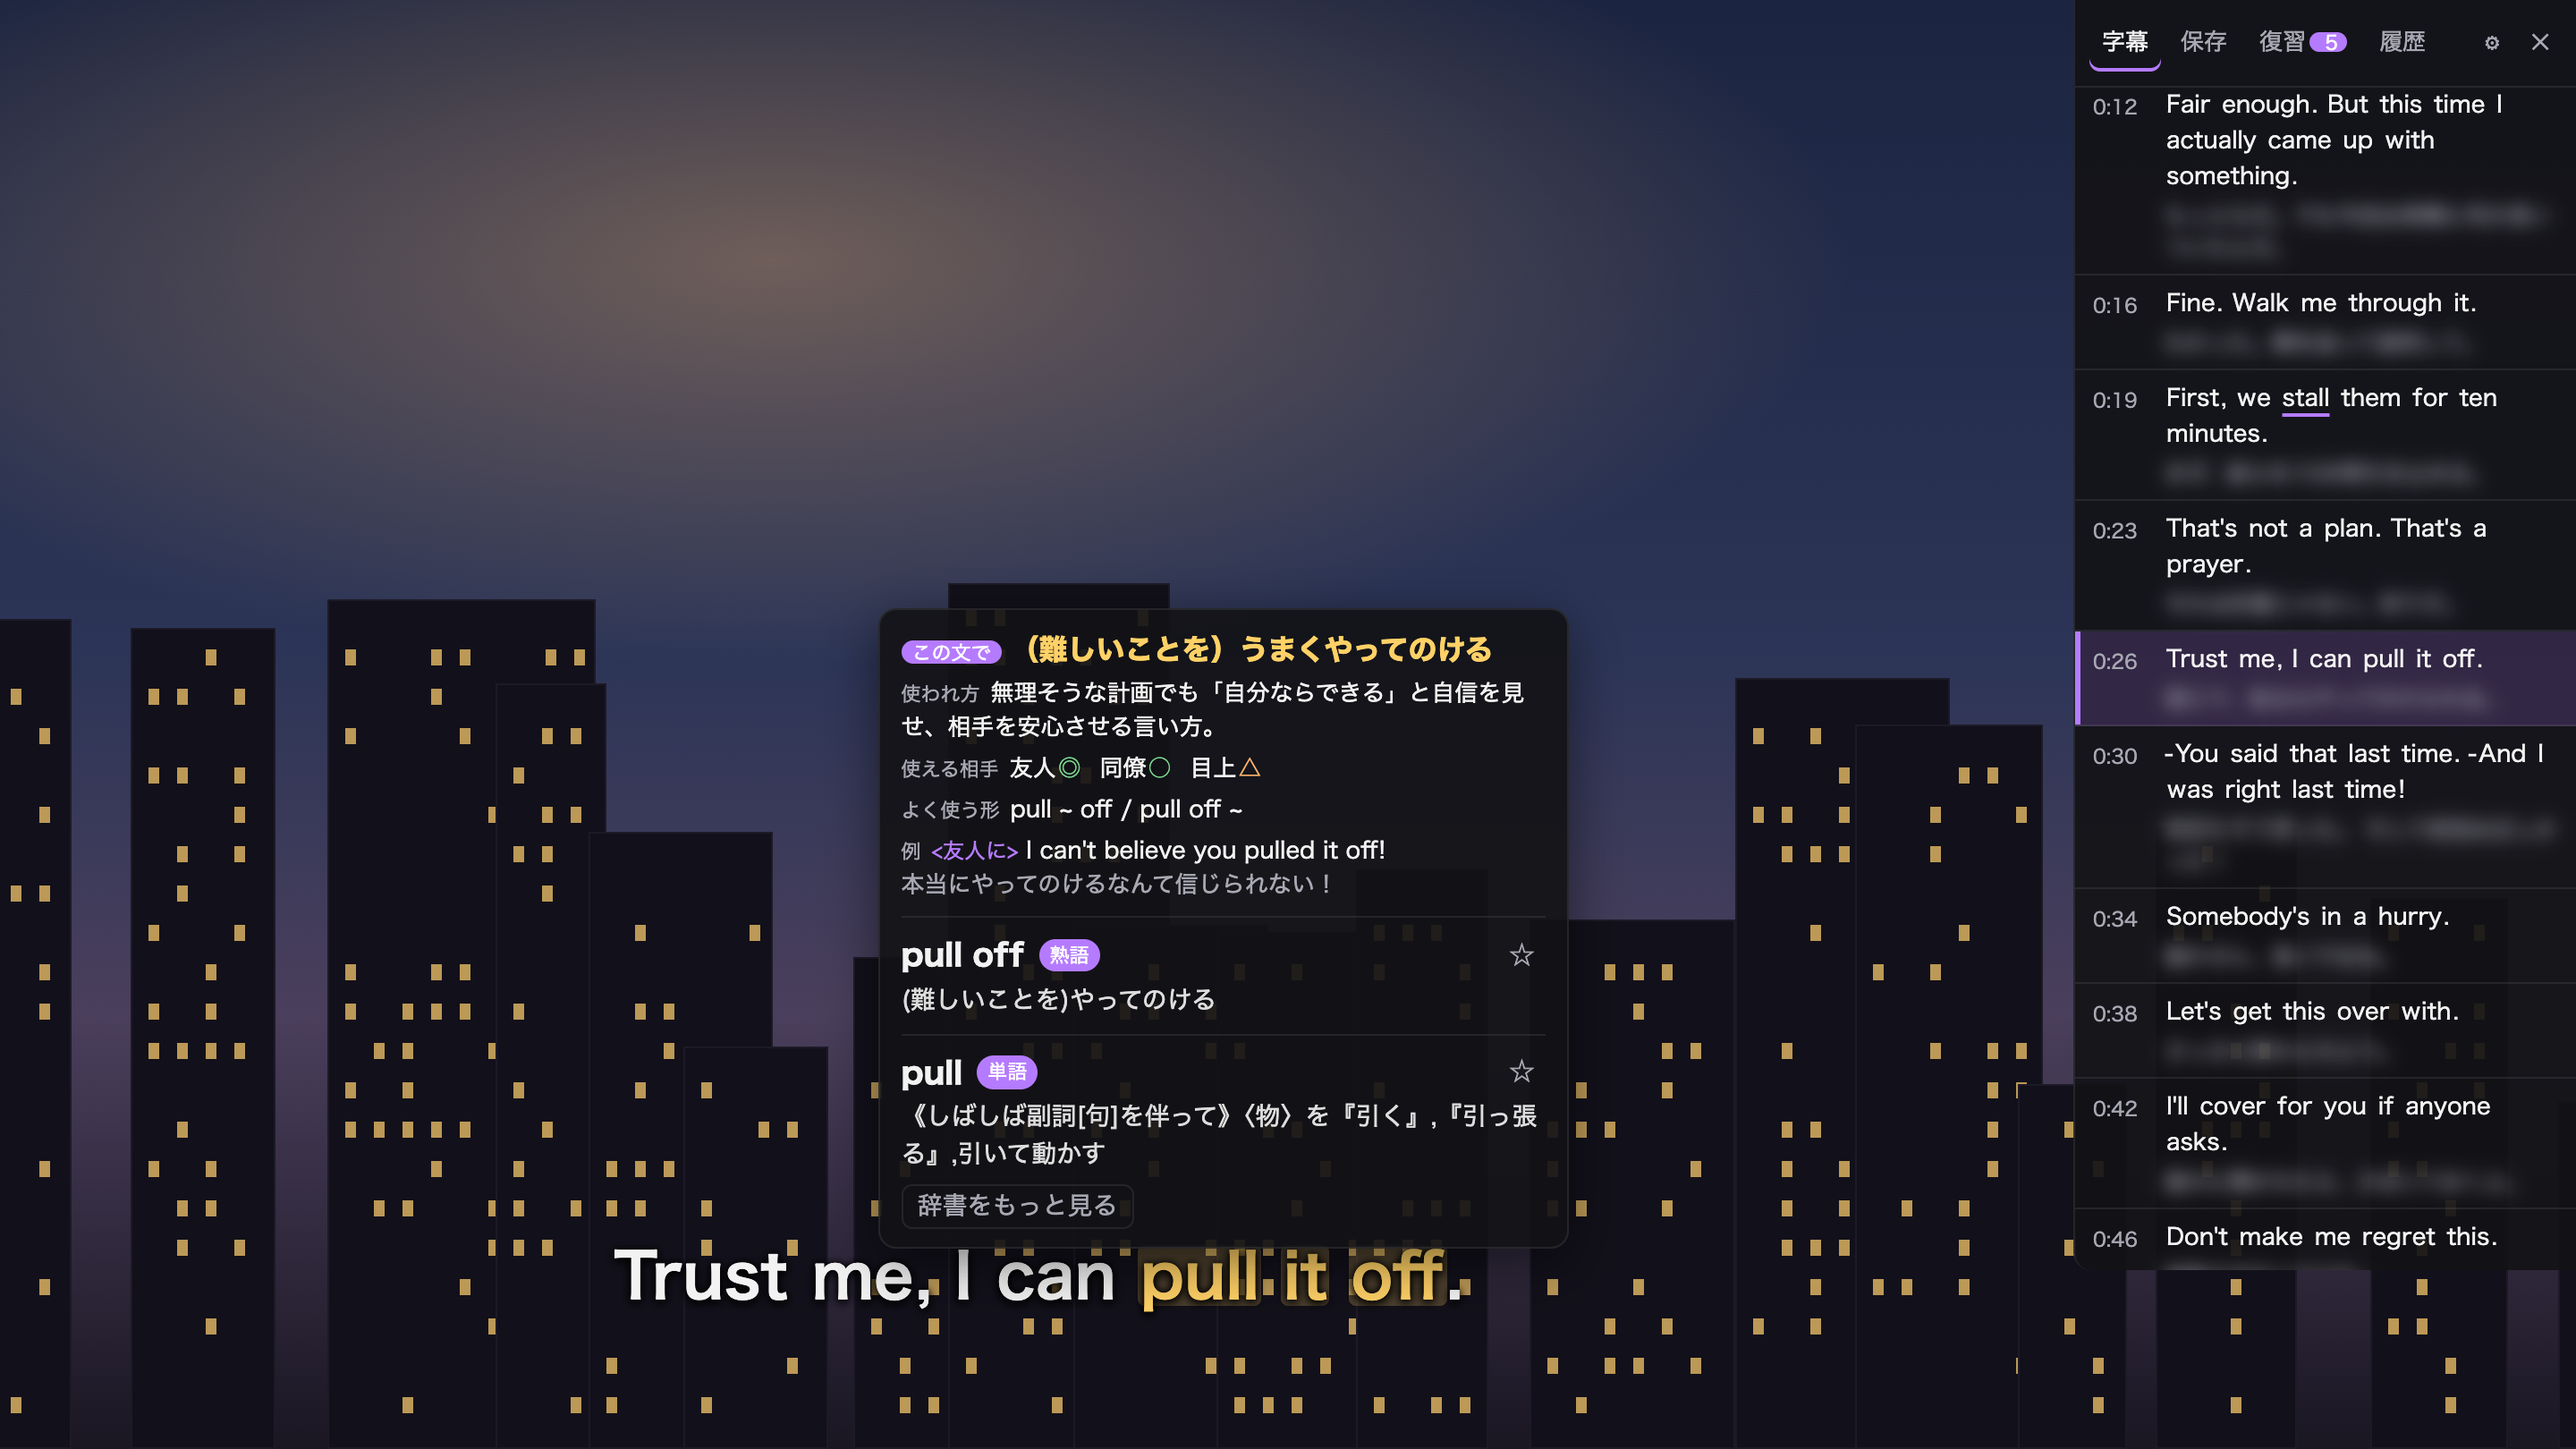
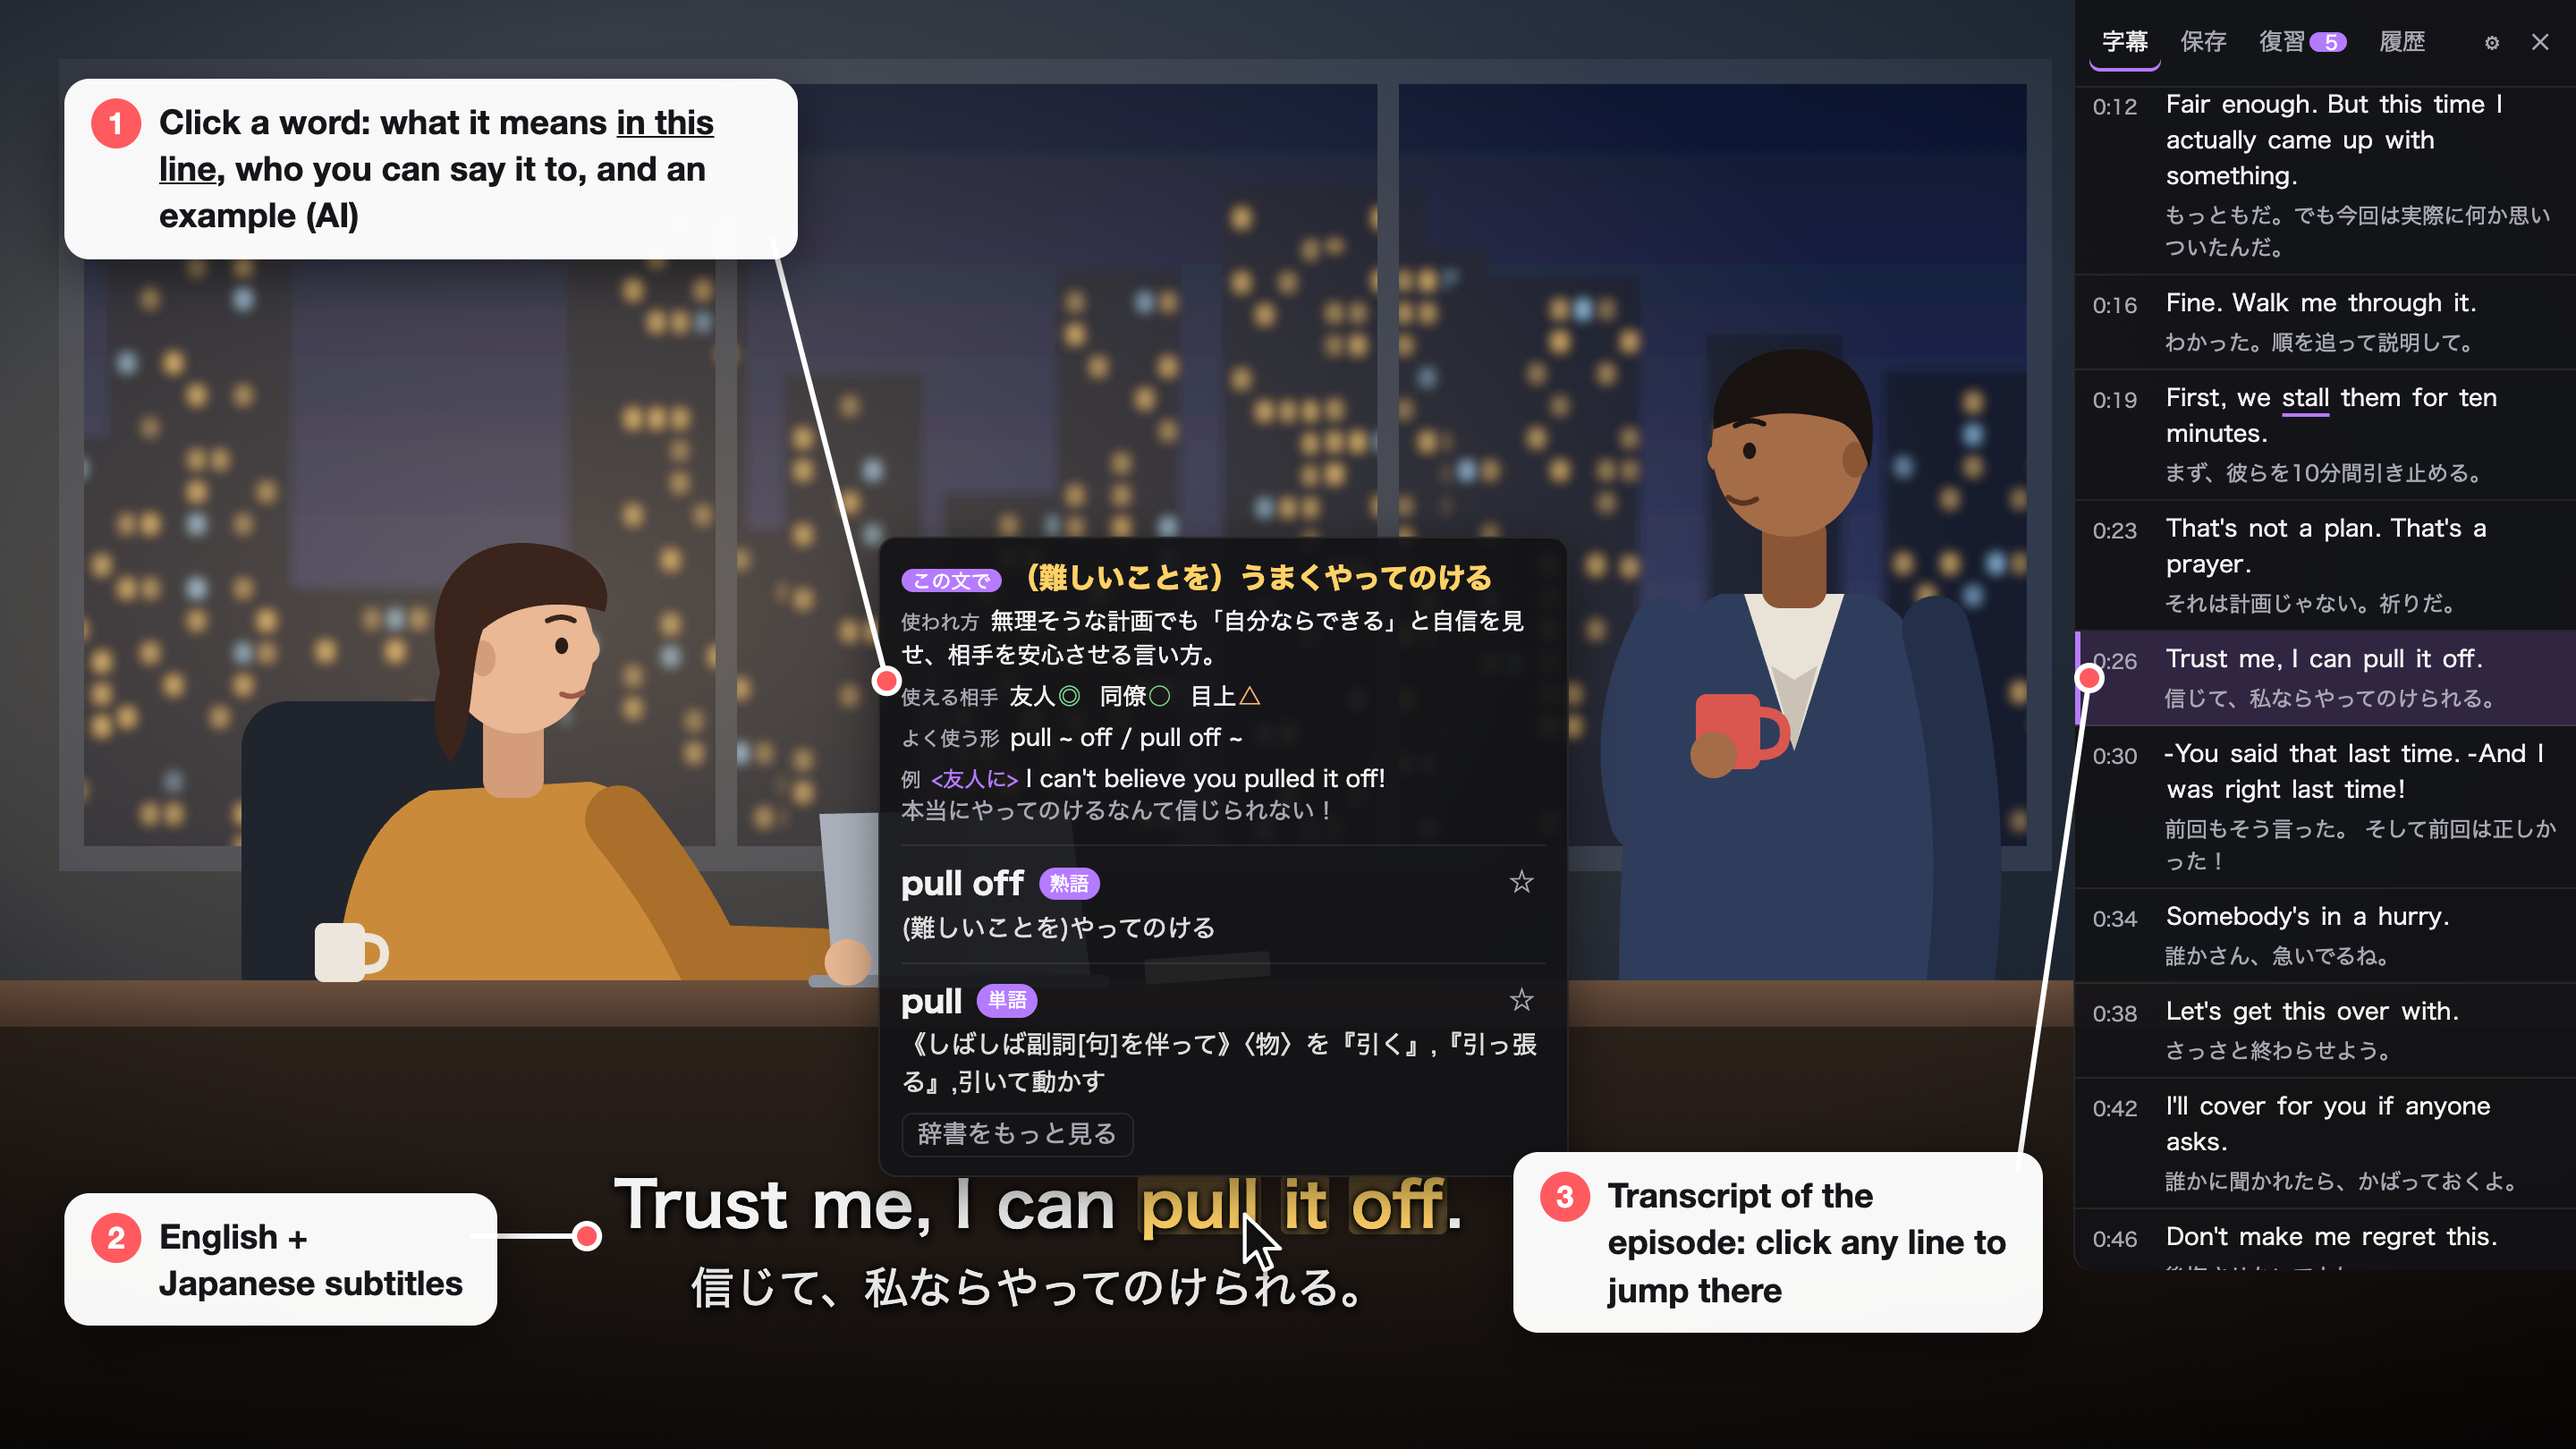
README: say who it's for up front; clearer screenshots
The README opens with one line on who the extension is for and what it does,
in English and Japanese. The screenshots now show a drawn office scene with two
people instead of a skyline, Japanese unblurred and under the English, a mouse
pointer, and numbered callouts for the word lookup, the dual subtitles, the
transcript and the review tab.

diff --git a/README.md b/README.md
@@ -1,13 +1,17 @@
 # Netflix Dual Subs
 
-A personal Chrome extension (Manifest V3) for learning English with Netflix, in the spirit of
-Language Reactor: English and Japanese subtitles together, a clickable transcript, an
-idiom-aware hover dictionary, AI explanations of a word *in its context*, and spaced-repetition
-review built from the words you looked up.
+**For Japanese speakers learning English: watch Netflix with English and Japanese subtitles,
+click any word to see what it means in that line, and review the words you looked up.**
 
-![Clicking "pull" in the subtitle: the idiom "pull off", its meaning in this line, who you could say it to, and an example. The transcript panel is on the right, Japanese blurred until hovered.](docs/screenshot-lookup.png)
+Netflixで英語を学ぶ日本語話者のための Chrome 拡張。英日の二重字幕で観ながら、単語をクリックするとその場面での意味が分かり、調べた単語はあとで復習できます。
 
-<p align="center"><img src="docs/screenshot-review.png" width="49%" alt="Review tab: say the saved phrase in English from the Japanese line"></p>
+![Clicking "pull" in the subtitle shows the idiom "pull off", what it means in this line, who you could say it to, and an example. English and Japanese subtitles at the bottom, the transcript on the right.](docs/screenshot-lookup.png)
+
+![Review tab: a multiple-choice question on a saved phrase, answered.](docs/screenshot-review.png)
+
+A Chrome extension (Manifest V3) in the spirit of Language Reactor: dual subtitles, a clickable
+transcript, an idiom-aware hover dictionary, AI explanations of a word *in its context*, and
+spaced-repetition review built from the words you looked up.
 
 <sub>Screenshots use a stand-in player page and made-up dialogue (`tools/screenshots.mjs`); nothing from Netflix is shown.</sub>
 
